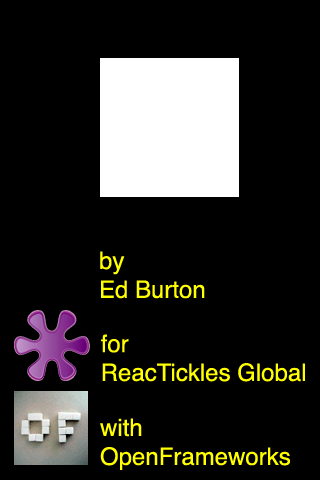
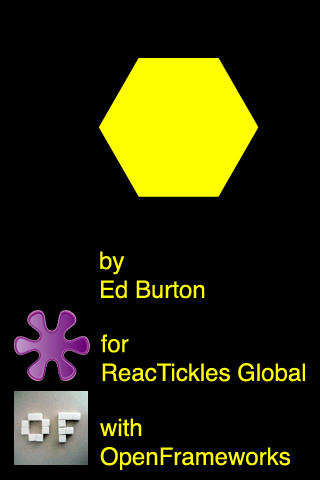
Hexagons attracted to centre of screen on soft springs, code a bit scruffy right now but stands as a nice little physics based reactickle already

Changed region(s): [[0.3125, 0.0938, 0.8125, 0.4375]]

diff --git a/OpenFrameworks DevReactickle/apps/box/src/box.mm b/OpenFrameworks DevReactickle/apps/box/src/box.mm
@@ -2,35 +2,40 @@
 
 //--------------------------------------------------------------
 void box::setup(){	
-	ofBackground(0,0,0);
-	ofSetBackgroundAuto(true);
-	ofDisableAlphaBlending();
-	
-	box2d.init();
-	box2d.setGravity(0, 9.8);
-	box2d.createBounds();
-	box2d.checkBounds(true);
-	box2d.setFPS(50.0);
-	ofSetFrameRate(50.0);
-	
 	float w=ofGetWidth();
 	float h=ofGetHeight();
-	int wc=3;
-	int hc=5;
-	float bw=w/(wc+2);
-	float bh=h/(hc+2);
-	int c=0;
-	for (int xi =0;xi<wc;xi++){
-		float x1=bw+xi*bw;
-		for (int yi =0;yi<hc;yi++){
-			if (c++<19) {
-				float y1=bh+yi*bh;
-				RegularPolygon poly(6,30);
-				poly.setPhysics(1.0, 0.4, 0.2);
-				poly.setup(box2d.getWorld(), x1+bw/2, y1+bh/2);
-				polygons.push_back(poly);
-			}
-		}
+	ofBackground(0,0,0);
+	ofSetBackgroundAuto(true);
+	ofEnableSmoothing();
+	ofDisableAlphaBlending();
+	box2d.init();
+	float r=sqrt(w*w+h*h)/8;
+	box2d.setBounds(ofPoint(-w*2,-h*2),ofPoint(w*3,h*3));
+	box2d.setGravity(0, 0);
+	box2d.checkBounds(false);
+	box2d.setFPS(50.0);
+	ofSetFrameRate(50.0);
+	b2Vec2 centre((w/2)/OFX_BOX2D_SCALE,(h/2)/OFX_BOX2D_SCALE);
+	b2BodyDef bd;
+	bd.position.Set(0, 0);
+	b2Body* ground = box2d.world->CreateBody(&bd);
+	
+	for (int c=0;c<30;c++) 
+	{
+		RegularPolygon poly(6,r);
+		poly.setPhysics(1.0, 0.0, 0.0);
+		poly.setup(box2d.getWorld(),ofRandom(-w, w*2)
+				   , ofRandomf()>0?ofRandom(h+r, h*2):ofRandom(-h, -r));
+		polygons.push_back(poly);
+		b2MouseJointDef md(0.1,0.1);
+		ofPoint op=poly.getB2DPosition();
+		b2Vec2 p(op.x,op.y);
+		md.body1 = ground;
+		md.body2 = poly.body;
+		md.target = p;
+		md.maxForce = 1000.0f * poly.body->GetMass();
+		b2MouseJoint* mj=(b2MouseJoint*)box2d.world->CreateJoint(&md);
+		mj->SetTarget(centre);
 	}
 	
 #if TARGET_OS_IPHONE==1
@@ -53,8 +58,9 @@ void box::draw(){
 	for(int i=0; i<polygons.size(); i++) {
 		polygons[i].draw();
 	}
-	box2d.draw();
+	//box2d.draw();
 }
+
 void box::exit() {
 }
 

diff --git a/OpenFrameworks DevReactickle/addons/ofxBox2d/scr/ofxBox2d.cpp b/OpenFrameworks DevReactickle/addons/ofxBox2d/scr/ofxBox2d.cpp
@@ -122,6 +122,8 @@ void ofxBox2d::setGravity(ofPoint pt) {
 
 // ------------------------------------------------------ set bounds
 void ofxBox2d::setBounds(ofPoint lowBounds, ofPoint upBounds) {
+	worldAABB.lowerBound.Set(lowBounds.x,lowBounds.y);
+	worldAABB.upperBound.Set(upBounds.x,upBounds.y);
 }
 
 // ------------------------------------------------------ create bounds
@@ -223,24 +225,25 @@ void ofxBox2d::draw() {
 	}
 	
 	//draw the ground
-	for(b2Shape* s=ground->GetShapeList(); s; s=s->GetNext()) {
-		
-		const b2XForm& xf = ground->GetXForm();		
-		b2PolygonShape* poly = (b2PolygonShape*)s;
-		int count = poly->GetVertexCount();
-		const b2Vec2* verts = poly->GetVertices();
-		ofEnableAlphaBlending();
-		ofFill();
-		ofSetColor(128, 128, 128, 128);
-		ofBeginShape();
-		for(int j=0; j<count; j++) {
+	if (ground)
+		for(b2Shape* s=ground->GetShapeList(); s; s=s->GetNext()) {
 			
-			b2Vec2 pt = b2Mul(xf, verts[j]);
-			
-			ofVertex(pt.x*OFX_BOX2D_SCALE, pt.y*OFX_BOX2D_SCALE);
+			const b2XForm& xf = ground->GetXForm();		
+			b2PolygonShape* poly = (b2PolygonShape*)s;
+			int count = poly->GetVertexCount();
+			const b2Vec2* verts = poly->GetVertices();
+			ofEnableAlphaBlending();
+			ofFill();
+			ofSetColor(128, 128, 128, 128);
+			ofBeginShape();
+			for(int j=0; j<count; j++) {
+				
+				b2Vec2 pt = b2Mul(xf, verts[j]);
+				
+				ofVertex(pt.x*OFX_BOX2D_SCALE, pt.y*OFX_BOX2D_SCALE);
+			}
+			ofEndShape();
+			ofDisableAlphaBlending();
 		}
-		ofEndShape();
-		ofDisableAlphaBlending();
-	}
 }
 

diff --git a/OpenFrameworks DevReactickle/apps/box/src/box.h b/OpenFrameworks DevReactickle/apps/box/src/box.h
@@ -8,31 +8,6 @@
 #include "RegularPolygon.h"
 #include "ofxBox2d.h"
 
-// ------------------------------------------------- a simple extended box2d circle
-class CustomParticle : public ofxBox2dCircle {
-	
-public:
-	float c;
-	CustomParticle() {
-		c = (int)ofRandom(30, 100);
-	}
-	ofColor color;
-	void draw() {
-		float radius = getRadius();
-		
-		glPushMatrix();
-		glTranslatef(getPosition().x, getPosition().y, 0);
-		
-		ofSetColor(c, c, c);
-		ofFill();
-		ofCircle(0, 0, radius);	
-		
-		glPopMatrix();
-		
-	}
-};
-
-
 class box : public ofSimpleApp , public ofxMultiTouchListener {
 	
 public:

diff --git a/OpenFrameworks DevReactickle/apps/box/src/main.cpp b/OpenFrameworks DevReactickle/apps/box/src/main.cpp
@@ -4,12 +4,12 @@
 int main(int argc, char *argv[]) {
 	int w=320;
 	int h=396;
-	int mode=OF_WINDOW;
-#if TARGET_OS_IPHONE
-	mode=OF_FULLSCREEN;
+	int mode=OF_FULLSCREEN;
+#if !TARGET_OS_IPHONE
+	CGRect thisMonitorArea = CGDisplayBounds(CGMainDisplayID());
+	w = CGRectGetWidth(thisMonitorArea);
+	h = CGRectGetHeight(thisMonitorArea);
 #endif
-	if (mode==OF_GAME_MODE)
-		w=h=9999;                       // attempts to use highest available resolution on desktop
-	ofSetupOpenGL(w,h, mode);			// <-------- setup the GL context
+	ofSetupOpenGL(w,h, mode);
 	ofRunApp(new box);
 }

diff --git a/OpenFrameworks DevReactickle/addons/ofxBox2d/scr/lib/Box2D/Source/Dynamics/Joints/b2MouseJoint.h b/OpenFrameworks DevReactickle/addons/ofxBox2d/scr/lib/Box2D/Source/Dynamics/Joints/b2MouseJoint.h
@@ -32,7 +32,16 @@ struct b2MouseJointDef : public b2JointDef
 		maxForce = 0.0f;
 		frequencyHz = 5.0f;
 		dampingRatio = 0.7f;
-	}
+	};
+	
+	b2MouseJointDef(float _frequencyHz,float _dampingRatio)
+	{
+		type = e_mouseJoint;
+		target.Set(0.0f, 0.0f);
+		maxForce = 0.0f;
+		frequencyHz = _frequencyHz;
+		dampingRatio = _dampingRatio;
+	};
 
 	/// The initial world target point. This is assumed
 	/// to coincide with the body anchor initially.

diff --git a/OpenFrameworks DevReactickle/apps/box/src/RegularPolygon.h b/OpenFrameworks DevReactickle/apps/box/src/RegularPolygon.h
@@ -23,6 +23,15 @@ public:
 			ofVertex(verts[i].x*OFX_BOX2D_SCALE, verts[i].y*OFX_BOX2D_SCALE);
 		}
 		ofEndShape(true);
+#if !TARGET_OS_IPHONE
+		ofNoFill();
+		ofSetLineWidth(1);
+		ofBeginShape();
+		for(int i=0; i<vertexCount; i++) {
+			ofVertex(verts[i].x*OFX_BOX2D_SCALE, verts[i].y*OFX_BOX2D_SCALE);
+		}
+		ofEndShape(true);
+#endif
 		delete [] verts;
 	};
 };
